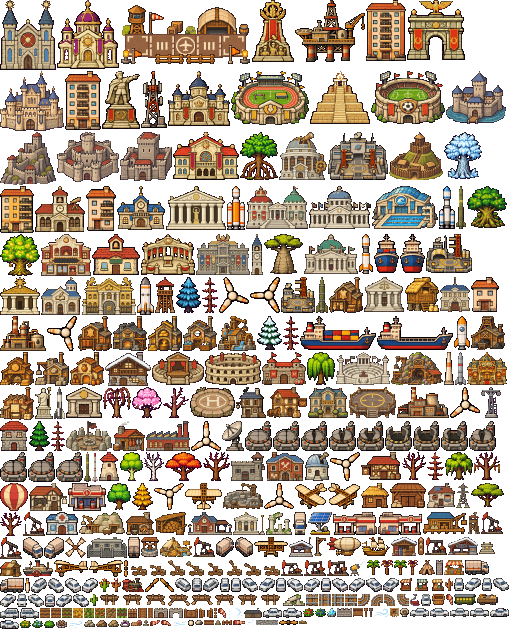
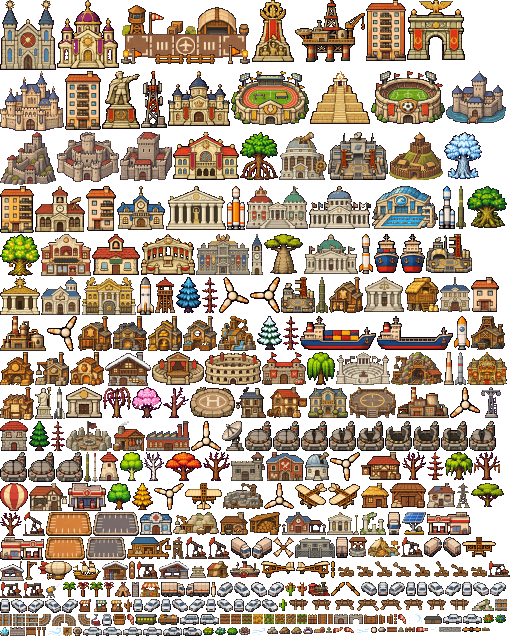
Aparcamientos: con cinco o más coches en el pueblo, uno junto a una calle (de tierra o asfaltado, y se asfalta al aprender a refinar), con los coches de la gente aparcados en sus plazas

diff --git a/js/arte_mapa.js b/js/arte_mapa.js
@@ -1,2 +1,2 @@
 // World Sim · Mapa del atlas de arte (generado: no editar a mano). clave: [x, y, ancho, alto, ancla x, llamas?]
-const ART_MAP = {"house:hut":[361,483,28,25,14],"house:piedra":[0,421,28,30,14],"well:pozo":[141,537,18,20,9],"store:almacen":[390,483,36,25,18],"tower:torre":[155,277,20,36,10],"hall:ayuntamiento":[117,186,48,44,24],"market:mercado":[400,578,44,13,22],"bank:banco":[66,387,36,31,18],"hospital:hospital":[46,512,32,23,16],"school:escuela":[92,234,48,41,24],"tavern:taberna":[361,452,40,28,20],"theater:teatro":[152,352,52,33,26],"coliseum:coliseo":[205,352,56,33,28],"barracks:cuartel":[262,352,44,33,22],"tradehall:lonja":[423,512,44,22,22],"quarry:cantera":[79,512,46,23,23],"temple:templo":[0,277,40,38,20],"obelisk:monumento":[35,387,18,32,9],"cathedral:catedral":[0,0,56,70,28],"cathedral:panteon":[166,186,60,44,30],"wonder:republica":[141,234,54,41,27],"wonder:monarquia":[168,71,62,55,31],"wonder:dictadura":[102,71,38,58,19],"wonder:comunismo":[252,0,42,62,21],"wonder:fascismo":[407,0,58,60,29],"wonder:socialismo":[173,132,66,48,33],"wonder:teocracia":[57,0,62,69,31],"altar:altar":[479,537,16,17,8,[5,0,6,6]],"cathedral:zigurat":[310,71,60,53,30,[24,1,12,13]],"forge:herreria":[126,512,28,23,14,[14,17,9,3]],"mill:molino":[99,452,20,29,10],"mill:aspas":[65,537,21,21,10],"oak:forest":[107,483,24,27,12],"oak:forest:bare":[402,452,24,28,12],"pine:pine":[29,421,21,30,10],"pine:pine:bare":[51,421,14,30,7],"pine:snow":[257,316,25,34,12],"pine:snow:bare":[283,316,16,34,8],"acacia:dry":[471,483,33,24,16],"acacia:dry:bare":[0,512,22,24,11],"birch:birch":[120,452,23,29,11],"birch:birch:bare":[144,452,20,29,10],"pine:blue":[176,277,25,36,12],"pine:blue:bare":[202,277,16,36,8],"willow:swamp":[307,352,28,33,14],"willow:swamp:bare":[103,387,28,31,14],"palm:palm":[367,560,13,15,6],"palm:palm:bare":[381,560,12,15,6],"palm:coco":[394,560,13,15,6],"palm:coco:bare":[408,560,10,15,5],"oak:cherry":[132,387,30,31,15],"oak:cherry:bare":[163,387,26,31,13],"pine:autumn":[132,483,21,27,10],"pine:autumn:bare":[427,452,17,28,8],"acacia:sunset":[165,452,37,29,18],"acacia:sunset:bare":[203,452,27,29,13],"willow:moss":[445,452,28,28,14],"willow:moss:bare":[474,452,26,28,13],"cactus:cactus":[90,594,8,12,4],"cactus:cactus:bare":[445,578,8,13,4],"cactus:bloom":[99,578,11,14,5],"cactus:bloom:bare":[111,578,10,14,5],"ancient:elder":[467,186,40,42,20],"ancient:frost":[444,132,38,47,19],"ancient:baobab":[264,234,39,40,19],"ancient:mangrove":[240,132,38,48,19],"ancient:life":[0,234,40,42,20],"bush:red":[303,608,11,9,5],"bush:blueb":[315,608,11,9,5],"bush:goldb":[20,620,11,8,5],"bush:moon":[32,620,11,8,5],"bush:empty":[44,620,11,8,5],"rock:stone":[195,620,8,5,4],"big:stone":[84,620,11,7,5],"ore:iron":[96,620,11,7,5],"ore:gold":[108,620,11,7,5],"gem:amethyst":[120,620,10,7,5],"gem:mana":[327,608,9,9,4],"fire:camp":[56,620,11,8,5],"camp:tienda":[419,560,16,15,8],"camp:estera":[131,620,11,6,5],"boat:0":[99,594,22,12,11],"boat:1":[122,594,22,12,11],"boat:2":[145,594,22,12,11],"boat:3":[168,594,22,12,11],"boat:4":[191,594,22,12,11],"boat:5":[214,594,22,12,11],"boat:6":[237,594,22,12,11],"boat:7":[260,594,22,12,11],"catapult:0":[129,560,18,16,9],"catapult:1":[148,560,18,16,9],"catapult:2":[167,560,18,16,9],"catapult:3":[186,560,18,16,9],"catapult:4":[205,560,18,16,9],"catapult:5":[224,560,18,16,9],"catapult:6":[243,560,18,16,9],"catapult:7":[262,560,18,16,9],"tex:arada":[40,608,10,10,5],"tex:sembrado":[51,608,10,10,5],"tex:brotes":[62,608,10,10,5],"tex:trigo":[73,608,10,10,5],"tex:maiz":[84,608,10,10,5],"tex:mijo":[95,608,10,10,5],"tex:muerta":[106,608,10,10,5],"tex:huerta":[117,608,10,10,5],"tex:empalizada_h":[128,608,9,10,4],"tex:empalizada_v":[418,537,6,18,3],"tex:piedra_h":[337,608,15,9,7],"tex:piedra_v":[436,560,7,15,3],"tex:puente_h":[353,608,10,9,5],"tex:puente_v":[138,608,9,10,4],"tex:puente_h5":[204,620,10,5,5],"tex:puente_v5":[148,608,5,10,2],"gate:piedra":[154,608,14,10,7],"gate:piedra_abierta":[169,608,14,10,7],"gate:madera":[184,608,14,10,7],"gate:madera_abierta":[199,608,14,10,7],"tumba:lapida":[215,620,6,5,3],"tumba:flores":[299,620,8,4,4],"tumba:estela":[143,620,6,6,3],"tex:valla_h":[222,620,10,5,5],"tex:valla_v":[214,608,3,10,1],"antorcha:encendida":[364,608,4,9,2],"antorcha:apagada":[369,608,4,9,2],"balloon:globo":[0,483,28,28,14],"balloon:cesta":[432,594,13,11,6],"aero:pista":[190,387,45,31,22],"aero:palo":[314,537,12,19,2],"sock:0":[233,620,12,5,0],"sock:1":[150,620,10,6,0],"sock:2":[161,620,10,6,0],"sock:3":[218,608,8,10,0],"sock:4":[446,594,7,11,0],"wind:0":[246,620,9,5,4],"wind:1":[172,620,15,6,7],"wind:2":[68,620,15,8,7],"wind:3":[374,608,15,9,7],"wind:4":[227,608,16,10,8],"court:tribunal":[364,277,40,35,20],"jail:carcel":[231,452,34,29,17],"press:imprenta":[29,483,38,28,19],"union:sindicato":[266,452,38,29,19],"parliament:parlamento":[304,234,54,40,27],"academy:academia":[41,277,40,38,20],"wonder:democracia":[336,352,54,33,27],"wonder:partitocracia":[196,234,54,41,27],"wonder:monarquia_parlamentaria":[246,186,62,43,31],"wonder:oligarquia":[82,277,54,38,27],"wonder:tecnocracia":[279,132,48,48,24],"wonder:anarquia":[66,421,46,30,23],"mine:mina":[391,352,52,33,26],"university:universidad":[35,186,50,46,25],"council:consejo":[309,186,62,43,31],"spy:espias":[236,387,30,31,15],"granary:granero":[405,277,34,35,17],"smoke:ahumadero":[113,421,32,30,16],"woodshed:lenera":[155,512,32,23,16],"post:postas":[267,387,40,31,20],"house:mansion":[308,387,40,31,20],"house:chabola":[0,560,22,17,11],"sport:futbol":[371,71,74,53,37],"sport:natacion":[372,186,66,43,33],"sport:atletismo":[231,71,78,54,39],"station:estacion":[188,512,44,23,22],"factory:fabrica":[146,421,44,30,22],"clock:reloj":[251,234,12,41,6],"observatory:observatorio":[305,452,24,29,12],"embassy:embajada":[233,512,32,23,16],"ruin:ruinas_a":[266,512,26,23,13],"ruin:ruinas_b":[283,594,22,12,11],"train:locomotora":[122,578,22,14,11],"train:vagon_p":[454,594,22,11,11],"train:vagon_m":[477,594,21,11,10],"airship:dirigible":[327,537,34,19,17],"ship:galeon":[362,537,28,19,14],"ship:vapor":[23,560,30,17,15],"tex:carretera":[256,620,22,5,11],"rail:h":[306,594,12,12,6],"rail:v":[319,594,12,12,6],"rail:x":[332,594,12,12,6],"rail:t":[345,594,12,12,6],"rail:nw":[358,594,12,12,6],"rail:se":[371,594,12,12,6],"rail:sw":[384,594,12,12,6],"rail:ne":[397,594,12,12,6],"fair:puesto":[444,560,20,15,10],"camp:oro":[160,537,32,20,16],"civic:registro":[440,277,30,35,15],"camp:centro":[87,537,40,21,20],"camp:cantera":[223,483,40,26,20],"camp:barracon":[244,608,18,10,9],"camp:torre":[468,512,12,22,6],"house:okupada":[427,483,28,25,14],"aero:plataforma":[349,387,47,31,23],"house:bloque1":[471,277,28,35,14],"house:bloque2":[86,186,30,45,15],"house:bloque3":[0,186,34,47,17],"house:bloque4":[65,71,36,59,18],"house:bloque5":[366,0,40,61,20],"okupa:ventana":[390,608,9,9,4],"pylon:torre":[456,483,14,25,7],"power:central":[397,387,52,31,26],"oil:pozo0":[281,560,22,16,11],"oil:pozo1":[193,537,22,20,11],"oil:pozo2":[481,512,22,22,11],"oil:pozo3":[23,512,22,24,11],"oil:pozo4":[0,537,22,22,11],"oil:pozo5":[425,537,22,18,11],"oil:pozo6":[304,560,22,16,11],"oil:pozo7":[327,560,22,16,11],"oil:plataforma":[295,0,70,62,35],"oil:refineria":[0,316,46,35,23],"truck:n":[128,537,12,21,6],"truck:ne":[216,537,18,20,9],"truck:e":[465,560,24,15,12],"truck:se":[23,537,20,22,10],"truck:s":[293,512,14,23,7],"truck:so":[44,537,20,22,10],"truck:o":[0,578,24,15,12],"truck:no":[235,537,18,20,9],"cargo:lleno":[300,316,76,34,38],"cargo:vacio":[377,316,76,34,38],"cargo:lleno_f":[374,234,25,39,12],"cargo:vacio_f":[400,234,25,39,12],"solar:placa":[308,512,24,23,12],"wind:torre":[444,352,10,33,5],"wind:gondola":[400,608,9,9,4],"wind:buje":[188,620,6,6,3],"wind:pala":[25,578,5,15,2],"wind:aspas0":[191,421,30,30,15],"wind:aspas1":[450,387,30,31,15],"wind:aspas2":[47,316,30,35,15],"wind:aspas3":[154,483,30,27,15],"wind:aspas4":[219,277,30,36,15],"wind:aspas5":[250,277,30,36,15],"wind:aspas6":[330,452,30,29,15],"wind:aspas7":[264,483,30,26,15],"plane:s":[254,537,34,20,17],"plane:n":[185,483,37,27,18],"plane:o":[54,560,34,17,17],"plane:so":[295,483,32,26,16],"plane:se":[328,483,32,26,16],"plane:e":[89,560,34,17,17],"air:aerodromo":[120,0,131,64,65],"prop:0":[124,560,4,17,2],"prop:1":[145,578,14,14,7],"prop:2":[279,620,19,5,9],"prop:3":[160,578,14,14,7],"tele:antena":[141,71,26,57,13],"tele:parabolica":[222,421,22,30,11],"space:lanzadera1":[281,277,34,36,17],"space:lanzadera2":[426,234,46,39,23],"space:lanzadera3":[328,132,60,48,30],"rocket:a":[454,316,16,34,8],"rocket:b":[137,277,17,38,8],"rocket:c":[359,234,14,40,7],"rocket:d":[439,186,16,43,8],"rocket:e":[227,186,18,44,9],"silo:0":[245,421,27,30,13],"silo:1":[273,421,27,30,13],"silo:2":[301,421,27,30,13],"silo:3":[329,421,27,30,13],"silo:4":[357,421,27,30,13],"silo:5":[385,421,27,30,13],"silo:6":[413,421,27,30,13],"silo:7":[441,421,27,30,13],"silo:8":[469,421,27,30,13],"silo:9":[0,452,27,30,13],"silo:10":[28,452,27,30,13],"silo:11":[56,452,27,30,13],"missile:0":[54,387,11,32,5],"missile:1":[84,452,7,30,3],"missile:2":[456,186,10,43,5],"missile:3":[455,352,11,33,5],"missile:4":[92,452,6,30,3],"missile:5":[316,277,12,36,6],"casino:casino":[467,352,40,33,20],"fac:textil":[0,387,34,33,17],"fac:curtiduria":[78,316,34,35,17],"fac:hierro":[113,316,34,35,17],"fac:carbon":[471,316,34,34,17],"fac:aserradero":[0,352,34,34,17],"fac:cantera":[35,352,34,34,17],"fac:peleteria":[329,277,34,36,17],"fac:oro":[148,316,34,35,17],"fac:alfareria":[70,352,34,34,17],"fac:joyeria":[183,316,34,35,17],"pump:extractora":[218,316,38,35,19],"castle:empalizada":[389,132,54,48,27],"castle:torre":[120,132,52,49,26],"castle:concentrico":[57,132,62,50,31],"castle:foso":[446,71,60,53,30],"castle:roca":[0,132,56,53,28],"castle:palacio":[0,71,64,60,32],"cinema:cine":[41,234,50,42,25],"skilodge:refugio":[105,352,46,34,23],"ski:telesilla_base":[448,537,30,18,15],"ski:telesilla_cima":[289,537,24,20,12],"ski:torre":[481,387,20,31,10],"ski:silla":[410,594,10,12,5],"ski:canon":[350,560,16,16,8],"ski:alquiler":[391,537,26,19,13],"car:familiar:no":[175,578,16,14,8],"car:familiar:n":[192,578,10,14,5],"car:familiar:ne":[203,578,16,14,8],"car:familiar:o":[0,608,19,11,9],"car:familiar:e":[20,608,19,11,9],"car:familiar:so":[31,578,16,15,8],"car:familiar:se":[48,578,16,15,8],"car:familiar:s":[220,578,10,14,5],"car:berlina:no":[65,578,16,15,8],"car:berlina:n":[231,578,10,14,5],"car:berlina:ne":[82,578,16,15,8],"car:berlina:o":[263,608,19,10,9],"car:berlina:e":[283,608,19,10,9],"car:berlina:s":[454,578,10,13,5],"car:berlina:se":[242,578,16,14,8],"car:berlina:so":[259,578,16,14,8],"car:berlina2:n":[276,578,10,14,5],"car:berlina2:no":[287,578,16,14,8],"car:berlina2:ne":[304,578,16,14,8],"car:berlina2:o":[410,608,19,9,9],"car:berlina2:e":[430,608,19,9,9],"car:berlina2:so":[465,578,16,13,8],"car:berlina2:s":[482,578,10,13,5],"car:berlina2:se":[493,578,16,13,8],"car:sedan:n":[321,578,10,14,5],"car:sedan:no":[332,578,16,14,8],"car:sedan:ne":[349,578,16,14,8],"car:sedan:o":[450,608,19,9,9],"car:sedan:e":[470,608,19,9,9],"car:sedan:so":[0,594,16,13,8],"car:sedan:s":[17,594,10,13,5],"car:sedan:se":[28,594,16,13,8],"car:deportivo:n":[45,594,10,13,5],"car:deportivo:no":[366,578,16,14,8],"car:deportivo:ne":[383,578,16,14,8],"car:deportivo:o":[490,608,19,9,9],"car:deportivo:e":[0,620,19,9,9],"car:deportivo:so":[56,594,16,13,8],"car:deportivo:s":[421,594,10,12,5],"car:deportivo:se":[73,594,16,13,8],"gas:gasolinera":[68,483,38,28,19],"gas:izq":[333,512,44,23,22],"gas:der":[378,512,44,23,22]};
+const ART_MAP = {"house:hut":[361,483,28,25,14],"house:piedra":[0,421,28,30,14],"well:pozo":[349,537,18,20,9],"store:almacen":[390,483,36,25,18],"tower:torre":[155,277,20,36,10],"hall:ayuntamiento":[117,186,48,44,24],"market:mercado":[79,599,44,13,22],"bank:banco":[66,387,36,31,18],"hospital:hospital":[140,512,32,23,16],"school:escuela":[92,234,48,41,24],"tavern:taberna":[361,452,40,28,20],"theater:teatro":[152,352,52,33,26],"coliseum:coliseo":[205,352,56,33,28],"barracks:cuartel":[262,352,44,33,22],"tradehall:lonja":[127,537,44,22,22],"quarry:cantera":[173,512,46,23,23],"temple:templo":[0,277,40,38,20],"obelisk:monumento":[35,387,18,32,9],"cathedral:catedral":[0,0,56,70,28],"cathedral:panteon":[166,186,60,44,30],"wonder:republica":[141,234,54,41,27],"wonder:monarquia":[168,71,62,55,31],"wonder:dictadura":[102,71,38,58,19],"wonder:comunismo":[252,0,42,62,21],"wonder:fascismo":[407,0,58,60,29],"wonder:socialismo":[173,132,66,48,33],"wonder:teocracia":[57,0,62,69,31],"altar:altar":[190,561,16,17,8,[5,0,6,6]],"cathedral:zigurat":[310,71,60,53,30,[24,1,12,13]],"forge:herreria":[220,512,28,23,14,[14,17,9,3]],"mill:molino":[99,452,20,29,10],"mill:aspas":[273,537,21,21,10],"oak:forest":[107,483,24,27,12],"oak:forest:bare":[402,452,24,28,12],"pine:pine":[29,421,21,30,10],"pine:pine:bare":[51,421,14,30,7],"pine:snow":[257,316,25,34,12],"pine:snow:bare":[283,316,16,34,8],"acacia:dry":[471,483,33,24,16],"acacia:dry:bare":[0,512,22,24,11],"birch:birch":[120,452,23,29,11],"birch:birch:bare":[144,452,20,29,10],"pine:blue":[176,277,25,36,12],"pine:blue:bare":[202,277,16,36,8],"willow:swamp":[307,352,28,33,14],"willow:swamp:bare":[103,387,28,31,14],"palm:palm":[63,582,13,15,6],"palm:palm:bare":[77,582,12,15,6],"palm:coco":[90,582,13,15,6],"palm:coco:bare":[104,582,10,15,5],"oak:cherry":[132,387,30,31,15],"oak:cherry:bare":[163,387,26,31,13],"pine:autumn":[132,483,21,27,10],"pine:autumn:bare":[427,452,17,28,8],"acacia:sunset":[165,452,37,29,18],"acacia:sunset:bare":[203,452,27,29,13],"willow:moss":[445,452,28,28,14],"willow:moss:bare":[474,452,26,28,13],"cactus:cactus":[279,599,8,12,4],"cactus:cactus:bare":[124,599,8,13,4],"cactus:bloom":[285,582,11,14,5],"cactus:bloom:bare":[297,582,10,14,5],"ancient:elder":[467,186,40,42,20],"ancient:frost":[444,132,38,47,19],"ancient:baobab":[264,234,39,40,19],"ancient:mangrove":[240,132,38,48,19],"ancient:life":[0,234,40,42,20],"bush:red":[483,614,11,9,5],"bush:blueb":[495,614,11,9,5],"bush:goldb":[203,627,11,8,5],"bush:moon":[215,627,11,8,5],"bush:empty":[227,627,11,8,5],"rock:stone":[378,627,8,5,4],"big:stone":[267,627,11,7,5],"ore:iron":[279,627,11,7,5],"ore:gold":[291,627,11,7,5],"gem:amethyst":[303,627,10,7,5],"gem:mana":[0,627,9,9,4],"fire:camp":[239,627,11,8,5],"camp:tienda":[115,582,16,15,8],"camp:estera":[314,627,11,6,5],"boat:0":[288,599,22,12,11],"boat:1":[311,599,22,12,11],"boat:2":[334,599,22,12,11],"boat:3":[357,599,22,12,11],"boat:4":[380,599,22,12,11],"boat:5":[403,599,22,12,11],"boat:6":[426,599,22,12,11],"boat:7":[449,599,22,12,11],"catapult:0":[336,561,18,16,9],"catapult:1":[355,561,18,16,9],"catapult:2":[374,561,18,16,9],"catapult:3":[393,561,18,16,9],"catapult:4":[412,561,18,16,9],"catapult:5":[431,561,18,16,9],"catapult:6":[450,561,18,16,9],"catapult:7":[469,561,18,16,9],"tex:arada":[220,614,10,10,5],"tex:sembrado":[231,614,10,10,5],"tex:brotes":[242,614,10,10,5],"tex:trigo":[253,614,10,10,5],"tex:maiz":[264,614,10,10,5],"tex:mijo":[275,614,10,10,5],"tex:muerta":[286,614,10,10,5],"tex:huerta":[297,614,10,10,5],"tex:empalizada_h":[308,614,9,10,4],"tex:empalizada_v":[129,561,6,18,3],"tex:piedra_h":[10,627,15,9,7],"tex:piedra_v":[132,582,7,15,3],"tex:puente_h":[26,627,10,9,5],"tex:puente_v":[318,614,9,10,4],"tex:puente_h5":[387,627,10,5,5],"tex:puente_v5":[328,614,5,10,2],"gate:piedra":[334,614,14,10,7],"gate:piedra_abierta":[349,614,14,10,7],"gate:madera":[364,614,14,10,7],"gate:madera_abierta":[379,614,14,10,7],"tumba:lapida":[398,627,6,5,3],"tumba:flores":[482,627,8,4,4],"tumba:estela":[326,627,6,6,3],"tex:valla_h":[405,627,10,5,5],"tex:valla_v":[394,614,3,10,1],"antorcha:encendida":[37,627,4,9,2],"antorcha:apagada":[42,627,4,9,2],"balloon:globo":[0,483,28,28,14],"balloon:cesta":[113,614,13,11,6],"aero:pista":[190,387,45,31,22],"aero:palo":[25,561,12,19,2],"sock:0":[416,627,12,5,0],"sock:1":[333,627,10,6,0],"sock:2":[344,627,10,6,0],"sock:3":[398,614,8,10,0],"sock:4":[127,614,7,11,0],"wind:0":[429,627,9,5,4],"wind:1":[355,627,15,6,7],"wind:2":[251,627,15,8,7],"wind:3":[47,627,15,9,7],"wind:4":[407,614,16,10,8],"court:tribunal":[364,277,40,35,20],"jail:carcel":[231,452,34,29,17],"press:imprenta":[29,483,38,28,19],"union:sindicato":[266,452,38,29,19],"parliament:parlamento":[304,234,54,40,27],"academy:academia":[41,277,40,38,20],"wonder:democracia":[336,352,54,33,27],"wonder:partitocracia":[196,234,54,41,27],"wonder:monarquia_parlamentaria":[246,186,62,43,31],"wonder:oligarquia":[82,277,54,38,27],"wonder:tecnocracia":[279,132,48,48,24],"wonder:anarquia":[66,421,46,30,23],"mine:mina":[391,352,52,33,26],"university:universidad":[35,186,50,46,25],"council:consejo":[309,186,62,43,31],"spy:espias":[236,387,30,31,15],"granary:granero":[405,277,34,35,17],"smoke:ahumadero":[113,421,32,30,16],"woodshed:lenera":[249,512,32,23,16],"post:postas":[267,387,40,31,20],"house:mansion":[308,387,40,31,20],"house:chabola":[207,561,22,17,11],"sport:futbol":[371,71,74,53,37],"sport:natacion":[372,186,66,43,33],"sport:atletismo":[231,71,78,54,39],"station:estacion":[282,512,44,23,22],"factory:fabrica":[146,421,44,30,22],"clock:reloj":[251,234,12,41,6],"observatory:observatorio":[305,452,24,29,12],"embassy:embajada":[327,512,32,23,16],"ruin:ruinas_a":[360,512,26,23,13],"ruin:ruinas_b":[472,599,22,12,11],"train:locomotora":[308,582,22,14,11],"train:vagon_p":[135,614,22,11,11],"train:vagon_m":[158,614,21,11,10],"airship:dirigible":[38,561,34,19,17],"ship:galeon":[73,561,28,19,14],"ship:vapor":[230,561,30,17,15],"tex:carretera":[439,627,22,5,11],"rail:h":[495,599,12,12,6],"rail:v":[0,614,12,12,6],"rail:x":[13,614,12,12,6],"rail:t":[26,614,12,12,6],"rail:nw":[39,614,12,12,6],"rail:se":[52,614,12,12,6],"rail:sw":[65,614,12,12,6],"rail:ne":[78,614,12,12,6],"fair:puesto":[140,582,20,15,10],"camp:oro":[368,537,32,20,16],"civic:registro":[440,277,30,35,15],"camp:centro":[295,537,40,21,20],"camp:cantera":[223,483,40,26,20],"camp:barracon":[424,614,18,10,9],"camp:torre":[172,537,12,22,6],"house:okupada":[427,483,28,25,14],"aero:plataforma":[349,387,47,31,23],"house:bloque1":[471,277,28,35,14],"house:bloque2":[86,186,30,45,15],"house:bloque3":[0,186,34,47,17],"house:bloque4":[65,71,36,59,18],"house:bloque5":[366,0,40,61,20],"okupa:ventana":[63,627,9,9,4],"pylon:torre":[456,483,14,25,7],"power:central":[397,387,52,31,26],"oil:pozo0":[488,561,22,16,11],"oil:pozo1":[401,537,22,20,11],"oil:pozo2":[185,537,22,22,11],"oil:pozo3":[23,512,22,24,11],"oil:pozo4":[208,537,22,22,11],"oil:pozo5":[136,561,22,18,11],"oil:pozo6":[0,582,22,16,11],"oil:pozo7":[23,582,22,16,11],"oil:plataforma":[295,0,70,62,35],"oil:refineria":[0,316,46,35,23],"truck:n":[336,537,12,21,6],"truck:ne":[424,537,18,20,9],"truck:e":[161,582,24,15,12],"truck:se":[231,537,20,22,10],"truck:s":[387,512,14,23,7],"truck:so":[252,537,20,22,10],"truck:o":[186,582,24,15,12],"truck:no":[443,537,18,20,9],"cargo:lleno":[300,316,76,34,38],"cargo:vacio":[377,316,76,34,38],"cargo:lleno_f":[374,234,25,39,12],"cargo:vacio_f":[400,234,25,39,12],"solar:placa":[402,512,24,23,12],"wind:torre":[444,352,10,33,5],"wind:gondola":[73,627,9,9,4],"wind:buje":[371,627,6,6,3],"wind:pala":[211,582,5,15,2],"wind:aspas0":[191,421,30,30,15],"wind:aspas1":[450,387,30,31,15],"wind:aspas2":[47,316,30,35,15],"wind:aspas3":[154,483,30,27,15],"wind:aspas4":[219,277,30,36,15],"wind:aspas5":[250,277,30,36,15],"wind:aspas6":[330,452,30,29,15],"wind:aspas7":[264,483,30,26,15],"plane:s":[462,537,34,20,17],"plane:n":[185,483,37,27,18],"plane:o":[261,561,34,17,17],"plane:so":[295,483,32,26,16],"plane:se":[328,483,32,26,16],"plane:e":[296,561,34,17,17],"air:aerodromo":[120,0,131,64,65],"prop:0":[331,561,4,17,2],"prop:1":[331,582,14,14,7],"prop:2":[462,627,19,5,9],"prop:3":[346,582,14,14,7],"tele:antena":[141,71,26,57,13],"tele:parabolica":[222,421,22,30,11],"space:lanzadera1":[281,277,34,36,17],"space:lanzadera2":[426,234,46,39,23],"space:lanzadera3":[328,132,60,48,30],"rocket:a":[454,316,16,34,8],"rocket:b":[137,277,17,38,8],"rocket:c":[359,234,14,40,7],"rocket:d":[439,186,16,43,8],"rocket:e":[227,186,18,44,9],"silo:0":[245,421,27,30,13],"silo:1":[273,421,27,30,13],"silo:2":[301,421,27,30,13],"silo:3":[329,421,27,30,13],"silo:4":[357,421,27,30,13],"silo:5":[385,421,27,30,13],"silo:6":[413,421,27,30,13],"silo:7":[441,421,27,30,13],"silo:8":[469,421,27,30,13],"silo:9":[0,452,27,30,13],"silo:10":[28,452,27,30,13],"silo:11":[56,452,27,30,13],"missile:0":[54,387,11,32,5],"missile:1":[84,452,7,30,3],"missile:2":[456,186,10,43,5],"missile:3":[455,352,11,33,5],"missile:4":[92,452,6,30,3],"missile:5":[316,277,12,36,6],"casino:casino":[467,352,40,33,20],"fac:textil":[0,387,34,33,17],"fac:curtiduria":[78,316,34,35,17],"fac:hierro":[113,316,34,35,17],"fac:carbon":[471,316,34,34,17],"fac:aserradero":[0,352,34,34,17],"fac:cantera":[35,352,34,34,17],"fac:peleteria":[329,277,34,36,17],"fac:oro":[148,316,34,35,17],"fac:alfareria":[70,352,34,34,17],"fac:joyeria":[183,316,34,35,17],"pump:extractora":[218,316,38,35,19],"castle:empalizada":[389,132,54,48,27],"castle:torre":[120,132,52,49,26],"castle:concentrico":[57,132,62,50,31],"castle:foso":[446,71,60,53,30],"castle:roca":[0,132,56,53,28],"castle:palacio":[0,71,64,60,32],"cinema:cine":[41,234,50,42,25],"skilodge:refugio":[105,352,46,34,23],"ski:telesilla_base":[159,561,30,18,15],"ski:telesilla_cima":[0,561,24,20,12],"ski:torre":[481,387,20,31,10],"ski:silla":[91,614,10,12,5],"ski:canon":[46,582,16,16,8],"ski:alquiler":[102,561,26,19,13],"car:familiar:no":[361,582,16,14,8],"car:familiar:n":[378,582,10,14,5],"car:familiar:ne":[389,582,16,14,8],"car:familiar:o":[180,614,19,11,9],"car:familiar:e":[200,614,19,11,9],"car:familiar:so":[217,582,16,15,8],"car:familiar:se":[234,582,16,15,8],"car:familiar:s":[406,582,10,14,5],"car:berlina:no":[251,582,16,15,8],"car:berlina:n":[417,582,10,14,5],"car:berlina:ne":[268,582,16,15,8],"car:berlina:o":[443,614,19,10,9],"car:berlina:e":[463,614,19,10,9],"car:berlina:s":[133,599,10,13,5],"car:berlina:se":[428,582,16,14,8],"car:berlina:so":[445,582,16,14,8],"car:berlina2:n":[462,582,10,14,5],"car:berlina2:no":[473,582,16,14,8],"car:berlina2:ne":[490,582,16,14,8],"car:berlina2:o":[83,627,19,9,9],"car:berlina2:e":[103,627,19,9,9],"car:berlina2:so":[144,599,16,13,8],"car:berlina2:s":[161,599,10,13,5],"car:berlina2:se":[172,599,16,13,8],"car:sedan:n":[0,599,10,14,5],"car:sedan:no":[11,599,16,14,8],"car:sedan:ne":[28,599,16,14,8],"car:sedan:o":[123,627,19,9,9],"car:sedan:e":[143,627,19,9,9],"car:sedan:so":[189,599,16,13,8],"car:sedan:s":[206,599,10,13,5],"car:sedan:se":[217,599,16,13,8],"car:deportivo:n":[234,599,10,13,5],"car:deportivo:no":[45,599,16,14,8],"car:deportivo:ne":[62,599,16,14,8],"car:deportivo:o":[163,627,19,9,9],"car:deportivo:e":[183,627,19,9,9],"car:deportivo:so":[245,599,16,13,8],"car:deportivo:s":[102,614,10,12,5],"car:deportivo:se":[262,599,16,13,8],"gas:gasolinera":[68,483,38,28,19],"gas:izq":[427,512,44,23,22],"gas:der":[0,537,44,23,22],"parking:tierra":[45,537,40,23,20],"parking:tierra2":[46,512,46,24,23],"parking:asfalto":[86,537,40,23,20],"parking:asfalto2":[93,512,46,24,23]};

diff --git a/index.html b/index.html
@@ -7,7 +7,7 @@
 <meta name="claude:viewport-fit-sides" content="cover">
 <link rel="preconnect" href="https://fonts.googleapis.com">
 <link rel="stylesheet" href="https://fonts.googleapis.com/css2?family=Pixelify+Sans:wght@400;600&family=Nunito+Sans:wght@400;600;700&display=swap">
-<link rel="stylesheet" href="css/estilo.css?v=202611281629">
+<link rel="stylesheet" href="css/estilo.css?v=202611281640">
 
 <div class="app">
   <section class="stage" id="stage">
@@ -192,129 +192,129 @@
 </div>
 
 <!-- El juego, en el orden en que se carga -->
-<script src="js/reportar.js?v=202611281629"></script>
-<script src="js/nucleo.js?v=202611281629"></script>
-<script src="js/mundo.js?v=202611281629"></script>
-<script src="js/vista.js?v=202611281629"></script>
-<script src="js/clima.js?v=202611281629"></script>
-<script src="js/fauna.js?v=202611281629"></script>
-<script src="js/desastres.js?v=202611281629"></script>
-<script src="js/mapas.js?v=202611281629"></script>
-<script src="js/humanos.js?v=202611281629"></script>
-<script src="js/partidas.js?v=202611281629"></script>
-<script src="js/vida.js?v=202611281629"></script>
-<script src="js/sociedad.js?v=202611281629"></script>
-<script src="js/impuestos.js?v=202611281629"></script>
-<script src="js/presupuestos.js?v=202611281629"></script>
-<script src="js/bolsa.js?v=202611281629"></script>
-<script src="js/vivienda.js?v=202611281629"></script>
-<script src="js/cartografia.js?v=202611281629"></script>
-<script src="js/convivencia.js?v=202611281629"></script>
-<script src="js/credos.js?v=202611281629"></script>
-<script src="js/tratados.js?v=202611281629"></script>
-<script src="js/globos.js?v=202611281629"></script>
-<script src="js/idiomas.js?v=202611281629"></script>
-<script src="js/regimenes.js?v=202611281629"></script>
-<script src="js/instituciones.js?v=202611281629"></script>
-<script src="js/monedas.js?v=202611281629"></script>
-<script src="js/minas.js?v=202611281629"></script>
-<script src="js/justicia.js?v=202611281629"></script>
-<script src="js/sindicatos.js?v=202611281629"></script>
-<script src="js/prensa.js?v=202611281629"></script>
-<script src="js/ciencia.js?v=202611281629"></script>
-<script src="js/consejo.js?v=202611281629"></script>
-<script src="js/espionaje.js?v=202611281629"></script>
-<script src="js/comercio.js?v=202611281629"></script>
-<script src="js/piratas.js?v=202611281629"></script>
-<script src="js/colonias.js?v=202611281629"></script>
-<script src="js/cultura.js?v=202611281629"></script>
-<script src="js/anexiones.js?v=202611281629"></script>
-<script src="js/lluvia.js?v=202611281629"></script>
-<script src="js/estaciones.js?v=202611281629"></script>
-<script src="js/bandidos.js?v=202611281629"></script>
-<script src="js/riqueza.js?v=202611281629"></script>
-<script src="js/noticias.js?v=202611281629"></script>
-<script src="js/defensa.js?v=202611281629"></script>
-<script src="js/trabajo.js?v=202611281629"></script>
-<script src="js/arte_mapa.js?v=202611281629"></script>
-<script src="js/arte.js?v=202611281629"></script>
-<script src="js/vegetacion.js?v=202611281629"></script>
-<script src="js/aldeanos.js?v=202611281629"></script>
-<script src="js/sonido.js?v=202611281629"></script>
-<script src="js/interfaz.js?v=202611281629"></script>
-<script src="js/civilizacion.js?v=202611281629"></script>
-<script src="js/industria.js?v=202611281629"></script>
-<script src="js/ambiente.js?v=202611281629"></script>
-<script src="js/fama.js?v=202611281629"></script>
-<script src="js/guerra.js?v=202611281629"></script>
-<script src="js/rutas.js?v=202611281629"></script>
-<script src="js/rescate.js?v=202611281629"></script>
-<script src="js/deportes.js?v=202611281629"></script>
-<script src="js/leyes.js?v=202611281629"></script>
-<script src="js/volcanes.js?v=202611281629"></script>
-<script src="js/edificios.js?v=202611281629"></script>
-<script src="js/calendario.js?v=202611281629"></script>
-<script src="js/titulares.js?v=202611281629"></script>
-<script src="js/libro.js?v=202611281629"></script>
-<script src="js/papeles.js?v=202611281629"></script>
-<script src="js/documentos.js?v=202611281629"></script>
-<script src="js/okupas.js?v=202611281629"></script>
-<script src="js/potencias.js?v=202611281629"></script>
-<script src="js/casino.js?v=202611281629"></script>
-<script src="js/clases.js?v=202611281629"></script>
-<script src="js/ciudades.js?v=202611281629"></script>
-<script src="js/cultivos.js?v=202611281629"></script>
-<script src="js/devocion.js?v=202611281629"></script>
-<script src="js/visitas.js?v=202611281629"></script>
-<script src="js/islas.js?v=202611281629"></script>
-<script src="js/estrategia.js?v=202611281629"></script>
-<script src="js/castillos.js?v=202611281629"></script>
-<script src="js/fabricas.js?v=202611281629"></script>
-<script src="js/urbanismo.js?v=202611281629"></script>
-<script src="js/puertos.js?v=202611281629"></script>
-<script src="js/armas.js?v=202611281629"></script>
-<script src="js/arbolciencia.js?v=202611281629"></script>
-<script src="js/leyes2.js?v=202611281629"></script>
-<script src="js/electricidad.js?v=202611281629"></script>
-<script src="js/petroleo.js?v=202611281629"></script>
-<script src="js/caminos.js?v=202611281629"></script>
-<script src="js/fenomenos.js?v=202611281629"></script>
-<script src="js/carguero.js?v=202611281629"></script>
-<script src="js/renovables.js?v=202611281629"></script>
-<script src="js/aviacion.js?v=202611281629"></script>
-<script src="js/electronica.js?v=202611281629"></script>
-<script src="js/espacio.js?v=202611281629"></script>
-<script src="js/misiles.js?v=202611281629"></script>
-<script src="js/agencia.js?v=202611281629"></script>
-<script src="js/terrorismo.js?v=202611281629"></script>
-<script src="js/pontones.js?v=202611281629"></script>
-<script src="js/grafica.js?v=202611281629"></script>
-<script src="js/ui.js?v=202611281629"></script>
-<script src="js/barrios.js?v=202611281629"></script>
-<script src="js/fichas.js?v=202611281629"></script>
-<script src="js/pensamientos.js?v=202611281629"></script>
-<script src="js/charla.js?v=202611281629"></script>
-<script src="js/susurros.js?v=202611281629"></script>
-<script src="js/mitines.js?v=202611281629"></script>
-<script src="js/parlamento.js?v=202611281629"></script>
-<script src="js/cortes.js?v=202611281629"></script>
-<script src="js/medios.js?v=202611281629"></script>
-<script src="js/encuestas.js?v=202611281629"></script>
-<script src="js/redes.js?v=202611281629"></script>
-<script src="js/digital.js?v=202611281629"></script>
-<script src="js/eras.js?v=202611281629"></script>
-<script src="js/gobierno.js?v=202611281629"></script>
-<script src="js/constitucion.js?v=202611281629"></script>
-<script src="js/manifestaciones.js?v=202611281629"></script>
-<script src="js/empresas.js?v=202611281629"></script>
-<script src="js/demografia.js?v=202611281629"></script>
-<script src="js/migracion.js?v=202611281629"></script>
-<script src="js/ocio.js?v=202611281629"></script>
-<script src="js/esqui.js?v=202611281629"></script>
-<script src="js/economia.js?v=202611281629"></script>
-<script src="js/coches.js?v=202611281629"></script>
-<script src="js/automatizacion.js?v=202611281629"></script>
-<script src="js/cambioclimatico.js?v=202611281629"></script>
-<script src="js/crisis.js?v=202611281629"></script>
-<script src="js/union.js?v=202611281629"></script>
-<script src="js/legado.js?v=202611281629"></script>
+<script src="js/reportar.js?v=202611281640"></script>
+<script src="js/nucleo.js?v=202611281640"></script>
+<script src="js/mundo.js?v=202611281640"></script>
+<script src="js/vista.js?v=202611281640"></script>
+<script src="js/clima.js?v=202611281640"></script>
+<script src="js/fauna.js?v=202611281640"></script>
+<script src="js/desastres.js?v=202611281640"></script>
+<script src="js/mapas.js?v=202611281640"></script>
+<script src="js/humanos.js?v=202611281640"></script>
+<script src="js/partidas.js?v=202611281640"></script>
+<script src="js/vida.js?v=202611281640"></script>
+<script src="js/sociedad.js?v=202611281640"></script>
+<script src="js/impuestos.js?v=202611281640"></script>
+<script src="js/presupuestos.js?v=202611281640"></script>
+<script src="js/bolsa.js?v=202611281640"></script>
+<script src="js/vivienda.js?v=202611281640"></script>
+<script src="js/cartografia.js?v=202611281640"></script>
+<script src="js/convivencia.js?v=202611281640"></script>
+<script src="js/credos.js?v=202611281640"></script>
+<script src="js/tratados.js?v=202611281640"></script>
+<script src="js/globos.js?v=202611281640"></script>
+<script src="js/idiomas.js?v=202611281640"></script>
+<script src="js/regimenes.js?v=202611281640"></script>
+<script src="js/instituciones.js?v=202611281640"></script>
+<script src="js/monedas.js?v=202611281640"></script>
+<script src="js/minas.js?v=202611281640"></script>
+<script src="js/justicia.js?v=202611281640"></script>
+<script src="js/sindicatos.js?v=202611281640"></script>
+<script src="js/prensa.js?v=202611281640"></script>
+<script src="js/ciencia.js?v=202611281640"></script>
+<script src="js/consejo.js?v=202611281640"></script>
+<script src="js/espionaje.js?v=202611281640"></script>
+<script src="js/comercio.js?v=202611281640"></script>
+<script src="js/piratas.js?v=202611281640"></script>
+<script src="js/colonias.js?v=202611281640"></script>
+<script src="js/cultura.js?v=202611281640"></script>
+<script src="js/anexiones.js?v=202611281640"></script>
+<script src="js/lluvia.js?v=202611281640"></script>
+<script src="js/estaciones.js?v=202611281640"></script>
+<script src="js/bandidos.js?v=202611281640"></script>
+<script src="js/riqueza.js?v=202611281640"></script>
+<script src="js/noticias.js?v=202611281640"></script>
+<script src="js/defensa.js?v=202611281640"></script>
+<script src="js/trabajo.js?v=202611281640"></script>
+<script src="js/arte_mapa.js?v=202611281640"></script>
+<script src="js/arte.js?v=202611281640"></script>
+<script src="js/vegetacion.js?v=202611281640"></script>
+<script src="js/aldeanos.js?v=202611281640"></script>
+<script src="js/sonido.js?v=202611281640"></script>
+<script src="js/interfaz.js?v=202611281640"></script>
+<script src="js/civilizacion.js?v=202611281640"></script>
+<script src="js/industria.js?v=202611281640"></script>
+<script src="js/ambiente.js?v=202611281640"></script>
+<script src="js/fama.js?v=202611281640"></script>
+<script src="js/guerra.js?v=202611281640"></script>
+<script src="js/rutas.js?v=202611281640"></script>
+<script src="js/rescate.js?v=202611281640"></script>
+<script src="js/deportes.js?v=202611281640"></script>
+<script src="js/leyes.js?v=202611281640"></script>
+<script src="js/volcanes.js?v=202611281640"></script>
+<script src="js/edificios.js?v=202611281640"></script>
+<script src="js/calendario.js?v=202611281640"></script>
+<script src="js/titulares.js?v=202611281640"></script>
+<script src="js/libro.js?v=202611281640"></script>
+<script src="js/papeles.js?v=202611281640"></script>
+<script src="js/documentos.js?v=202611281640"></script>
+<script src="js/okupas.js?v=202611281640"></script>
+<script src="js/potencias.js?v=202611281640"></script>
+<script src="js/casino.js?v=202611281640"></script>
+<script src="js/clases.js?v=202611281640"></script>
+<script src="js/ciudades.js?v=202611281640"></script>
+<script src="js/cultivos.js?v=202611281640"></script>
+<script src="js/devocion.js?v=202611281640"></script>
+<script src="js/visitas.js?v=202611281640"></script>
+<script src="js/islas.js?v=202611281640"></script>
+<script src="js/estrategia.js?v=202611281640"></script>
+<script src="js/castillos.js?v=202611281640"></script>
+<script src="js/fabricas.js?v=202611281640"></script>
+<script src="js/urbanismo.js?v=202611281640"></script>
+<script src="js/puertos.js?v=202611281640"></script>
+<script src="js/armas.js?v=202611281640"></script>
+<script src="js/arbolciencia.js?v=202611281640"></script>
+<script src="js/leyes2.js?v=202611281640"></script>
+<script src="js/electricidad.js?v=202611281640"></script>
+<script src="js/petroleo.js?v=202611281640"></script>
+<script src="js/caminos.js?v=202611281640"></script>
+<script src="js/fenomenos.js?v=202611281640"></script>
+<script src="js/carguero.js?v=202611281640"></script>
+<script src="js/renovables.js?v=202611281640"></script>
+<script src="js/aviacion.js?v=202611281640"></script>
+<script src="js/electronica.js?v=202611281640"></script>
+<script src="js/espacio.js?v=202611281640"></script>
+<script src="js/misiles.js?v=202611281640"></script>
+<script src="js/agencia.js?v=202611281640"></script>
+<script src="js/terrorismo.js?v=202611281640"></script>
+<script src="js/pontones.js?v=202611281640"></script>
+<script src="js/grafica.js?v=202611281640"></script>
+<script src="js/ui.js?v=202611281640"></script>
+<script src="js/barrios.js?v=202611281640"></script>
+<script src="js/fichas.js?v=202611281640"></script>
+<script src="js/pensamientos.js?v=202611281640"></script>
+<script src="js/charla.js?v=202611281640"></script>
+<script src="js/susurros.js?v=202611281640"></script>
+<script src="js/mitines.js?v=202611281640"></script>
+<script src="js/parlamento.js?v=202611281640"></script>
+<script src="js/cortes.js?v=202611281640"></script>
+<script src="js/medios.js?v=202611281640"></script>
+<script src="js/encuestas.js?v=202611281640"></script>
+<script src="js/redes.js?v=202611281640"></script>
+<script src="js/digital.js?v=202611281640"></script>
+<script src="js/eras.js?v=202611281640"></script>
+<script src="js/gobierno.js?v=202611281640"></script>
+<script src="js/constitucion.js?v=202611281640"></script>
+<script src="js/manifestaciones.js?v=202611281640"></script>
+<script src="js/empresas.js?v=202611281640"></script>
+<script src="js/demografia.js?v=202611281640"></script>
+<script src="js/migracion.js?v=202611281640"></script>
+<script src="js/ocio.js?v=202611281640"></script>
+<script src="js/esqui.js?v=202611281640"></script>
+<script src="js/economia.js?v=202611281640"></script>
+<script src="js/coches.js?v=202611281640"></script>
+<script src="js/automatizacion.js?v=202611281640"></script>
+<script src="js/cambioclimatico.js?v=202611281640"></script>
+<script src="js/crisis.js?v=202611281640"></script>
+<script src="js/union.js?v=202611281640"></script>
+<script src="js/legado.js?v=202611281640"></script>

diff --git a/js/coches.js b/js/coches.js
@@ -252,4 +252,51 @@ function drawCars(now){
   if (zoom >= 2) for (const g of carFacs()) { const i = g.carFac.i, x = (i % W) * T + 2, y = ((i / W) | 0) * T - 30; if (x < x0 - 40 || x > x1 + 40 || y < y0 - 20 || y > y1 + 40) continue;
     vctx.font = 'bold 4.5px sans-serif'; const w = vctx.measureText(g.carFac.brand).width + 6; vctx.fillStyle = '#22201e'; vctx.fillRect(x - w / 2 - 1, y - 1, w + 2, 8); vctx.fillStyle = '#2a4a80'; vctx.fillRect(x - w / 2, y, w, 6); vctx.fillStyle = '#f4f0e4'; vctx.textAlign = 'center'; vctx.fillText(g.carFac.brand, x, y + 4.6); vctx.textAlign = 'start'; }
 }
+// ---- Aparcamientos ----
+// · Con cinco o más coches en el pueblo, un aparcamiento junto a una calle (otro por cada doce coches, hasta tres): de
+//   tierra o, si la nación ya sabe refinar (asfalto), asfaltado; los de tierra se asfaltan cuando aprenden
+// · Se ven los coches de la gente que no está conduciendo, aparcados en sus plazas (de morro, en dos filas)
+BLD.add('parking'); BUILD_DIMS.parking = [4, 4]; KIND_DIMS.aparcamiento = [4, 4];
+for (const k of ['tierra', 'tierra2', 'asfalto', 'asfalto2']) OBJ['parking:' + k] = ['Aparcamiento', 'house', 0];
+if (typeof BLD_DESC !== 'undefined') BLD_DESC.parking = 'Aparcamiento: donde dejan el coche los del pueblo';
+const parksOf = g => (g.parks || []).filter(i => world.objs[i] && world.objs[i].key.startsWith('parking:'));
+function parkSite(g){ // (como la gasolinera: con una calle delante, de la plaza hacia fuera)
+  const R = Math.min(34, (typeof townRadius === 'function' ? townRadius(g) : 10) + 8), cand = [];
+  for (const i of pathMap) { const x = i % W, y = ((i / W) | 0) - 1, d = Math.hypot(x - g.fx, y - g.fy); if (d < 4 || d > R || plazaSet.has(i)) continue; cand.push([d + Math.random() * 8, x, y]); }
+  cand.sort((a, b) => a[0] - b[0]);
+  for (const [, x, y] of cand.slice(0, 400)) {
+    if (x < 6 || y < 6 || x >= W - 6 || y >= H - 6 || pathMap.has(y * W + x) || !tileFree(x, y)) continue;
+    if (!clearable(x - 4, y - 4, x + 4, y) || buildingClash(x, y, 'aparcamiento') || villages.some(o => underBuilding(o, x, y))) continue;
+    return [x, y]; }
+  return null;
+}
+let parkT = 0;
+SYSTEMS.push(dt => { try {
+  if (!world || (parkT -= dt) > 0) return; parkT = 12;
+  for (const g of liveTowns()) {
+    const n = nationOf(g); if (!knowsSci(n, 'automovil')) continue;
+    const P = g.parks = parksOf(g), own = carOwners(g).length, paved = knowsSci(n, 'refinado');
+    for (const i of P) { const o = world.objs[i]; if (paved && o.key.startsWith('parking:tierra')) { o.key = o.key.replace('tierra', 'asfalto'); const x = i % W, y = (i / W) | 0; composeRegion(x - 8, y - 8, x + 8, y + 4); } } // (lo asfaltan)
+    if (own < 5 || P.length >= Math.min(3, Math.ceil(own / 12)) || (g.stone || 0) < 8 || (g.parkFail > yearT - DAY_LEN)) continue;
+    const p = parkSite(g); if (!p) { g.parkFail = yearT; continue; }
+    const [x, y] = p, i = y * W + x; clearSite(g, x - 4, y - 4, x + 4, y);
+    world.objs[i] = { key:`parking:${paved ? 'asfalto' : 'tierra'}${Math.random() < .5 ? '2' : ''}`, v:0, ox:0, oy:0, vid:g.id }; P.push(i); g.stone -= 8;
+    composeRegion(x - 8, y - 8, x + 8, y + 4); addEffect(x * T + 2, y * T + 3, 'poof');
+    if (P.length === 1) notify(`En ${g.name} hacen un aparcamiento: ya hay tantos coches que no caben por las calles`, { x:x * T, y:y * T });
+  }
+} catch (e) { console.error(e); } });
+function drawParked(){
+  if (zoom < 1.4) return; const [x0, y0, x1, y1] = visibleRect(), driving = new Set(traffic.map(c => c.v));
+  for (const g of liveTowns()) {
+    const P = (g.parks || []).filter(i => world.objs[i] && world.objs[i].key.startsWith('parking:')); if (!P.length) continue;
+    const cars = carOwners(g).filter(v => !driving.has(v) && !v.away); let k = 0;
+    for (const i of P) {
+      const f = artFrame(world.objs[i].key), x = (i % W) * T + 2, y = ((i / W) | 0) * T + 3; if (!f || x < x0 - 40 || x > x1 + 40 || y < y0 - 30 || y > y1 + 20) { k += 8; continue; }
+      const L = x - f.ax, Tp = y - f.height + 1, w = f.width, h = f.height, xs = [.27, .42, .58, .73];
+      for (const [row, dir, fy] of [[0, 'n', .5], [1, 's', .93]]) for (const fx of xs) { const v = cars[k++]; if (!v) continue; const s = carSprite(v.car.t, dir, v.car.c); if (!s) continue;
+        vctx.drawImage(s, Math.round(L + w * fx - s.width / 2), Math.round(Tp + h * fy - s.height)); }
+    }
+  }
+}
+{ const base = drawCars; drawCars = function(now){ try { drawParked(); } catch (e) { console.error(e); } return base.apply(this, arguments); }; }
 { const base = drawInstFlags; drawInstFlags = function(t){ const r = base.apply(this, arguments); try { drawCars(performance.now()); } catch (e) { console.error(e); } return r; }; }

diff --git a/js/arte.js b/js/arte.js
@@ -9,7 +9,7 @@ const ART = { img:null, ready:false, cache:new Map() };
   if (typeof ART_MAP === 'undefined') return;
   const im = new Image();
   im.onload = () => { ART.img = im; ART.ready = true; ART.cache.clear(); if (typeof world !== 'undefined' && world && typeof composeRegion === 'function') composeRegion(0, 0, W - 1, H - 1); };
-  im.src = 'arte/atlas.png?v=202611281629';
+  im.src = 'arte/atlas.png?v=202611281640';
 })();
 const ART_DECID = new Set(['oak:forest', 'birch:birch', 'willow:swamp', 'willow:moss', 'acacia:dry', 'acacia:sunset', 'oak:cherry', 'pine:autumn']);
 const ART_EVER = new Set(['pine:pine', 'pine:snow', 'pine:blue', 'ancient:elder', 'ancient:mangrove', 'ancient:life', 'ancient:baobab']);

diff --git a/herramientas/atlas.py b/herramientas/atlas.py
@@ -383,6 +383,11 @@ if os.path.exists(os.path.join(SRC, 'gasolinera.png')):  # la gasolinera, de fre
     for key, box, w in [('gas:gasolinera', (590, 630, 940, 890), 38), ('gas:izq', (50, 640, 490, 880), 44), ('gas:der', (1040, 640, 1490, 880), 44)]:
         add(key, shrink(box_parts('gasolinera.png', box), w, 40))
 
+if os.path.exists(os.path.join(SRC, 'parking.png')):  # aparcamientos de frente (tierra arriba, asfalto abajo; uno estrecho y otro ancho)
+    for key, box, w in [('parking:tierra', (450, 160, 880, 430), 40), ('parking:tierra2', (1300, 160, 1770, 430), 46),
+                        ('parking:asfalto', (450, 530, 880, 800), 40), ('parking:asfalto2', (1300, 540, 1770, 800), 46)]:
+        add(key, shrink(box_parts('parking.png', box), w, 40))
+
 # ---- Atlas: en filas, con 1 píxel de separación ----
 keys = list(S); W = 512; x = y = rowh = 0; pos = {}
 for k in sorted(keys, key=lambda k: -S[k]['img'].height):
